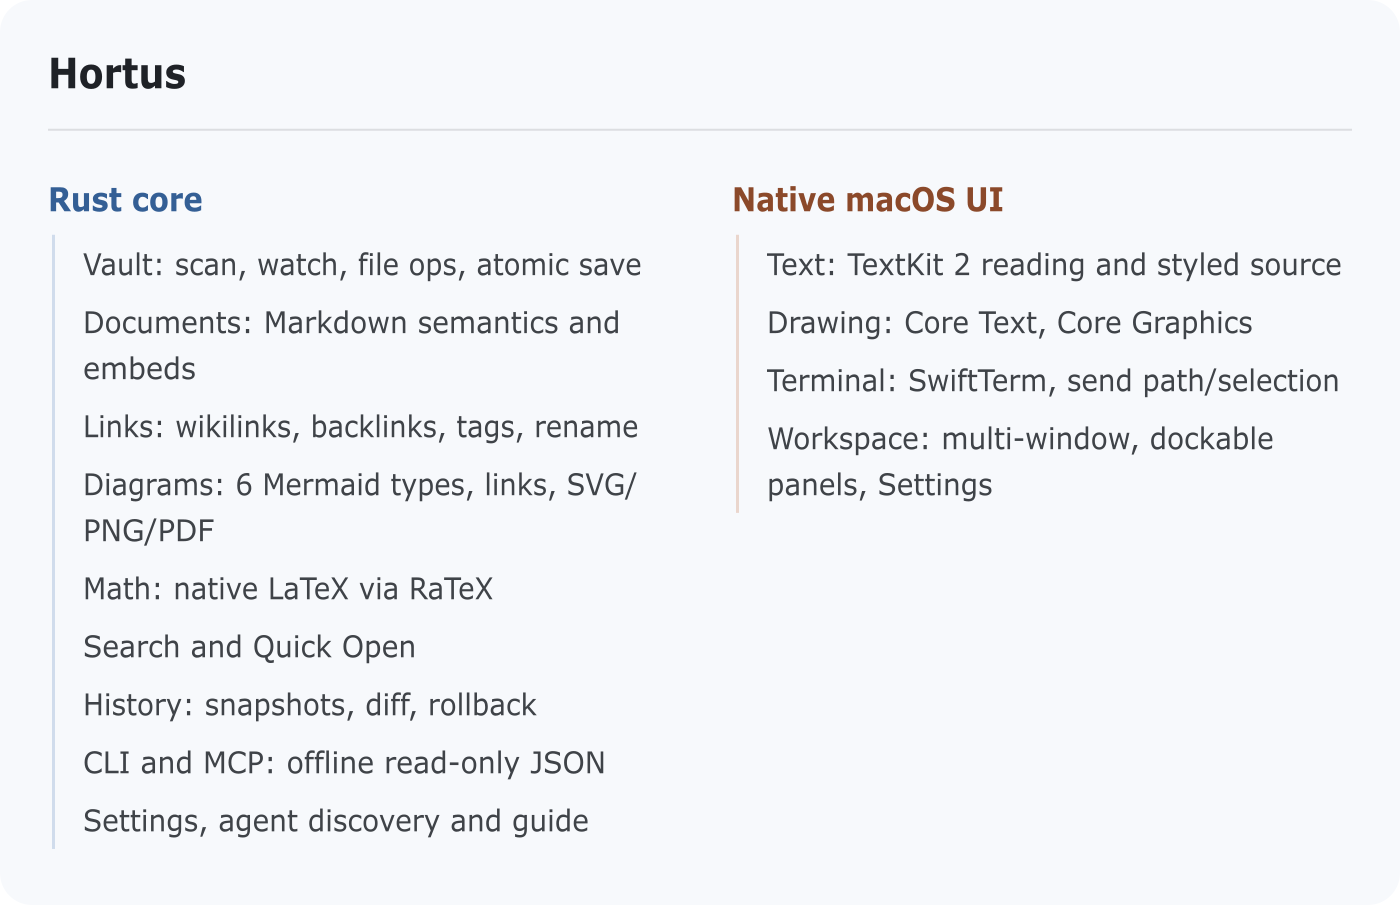
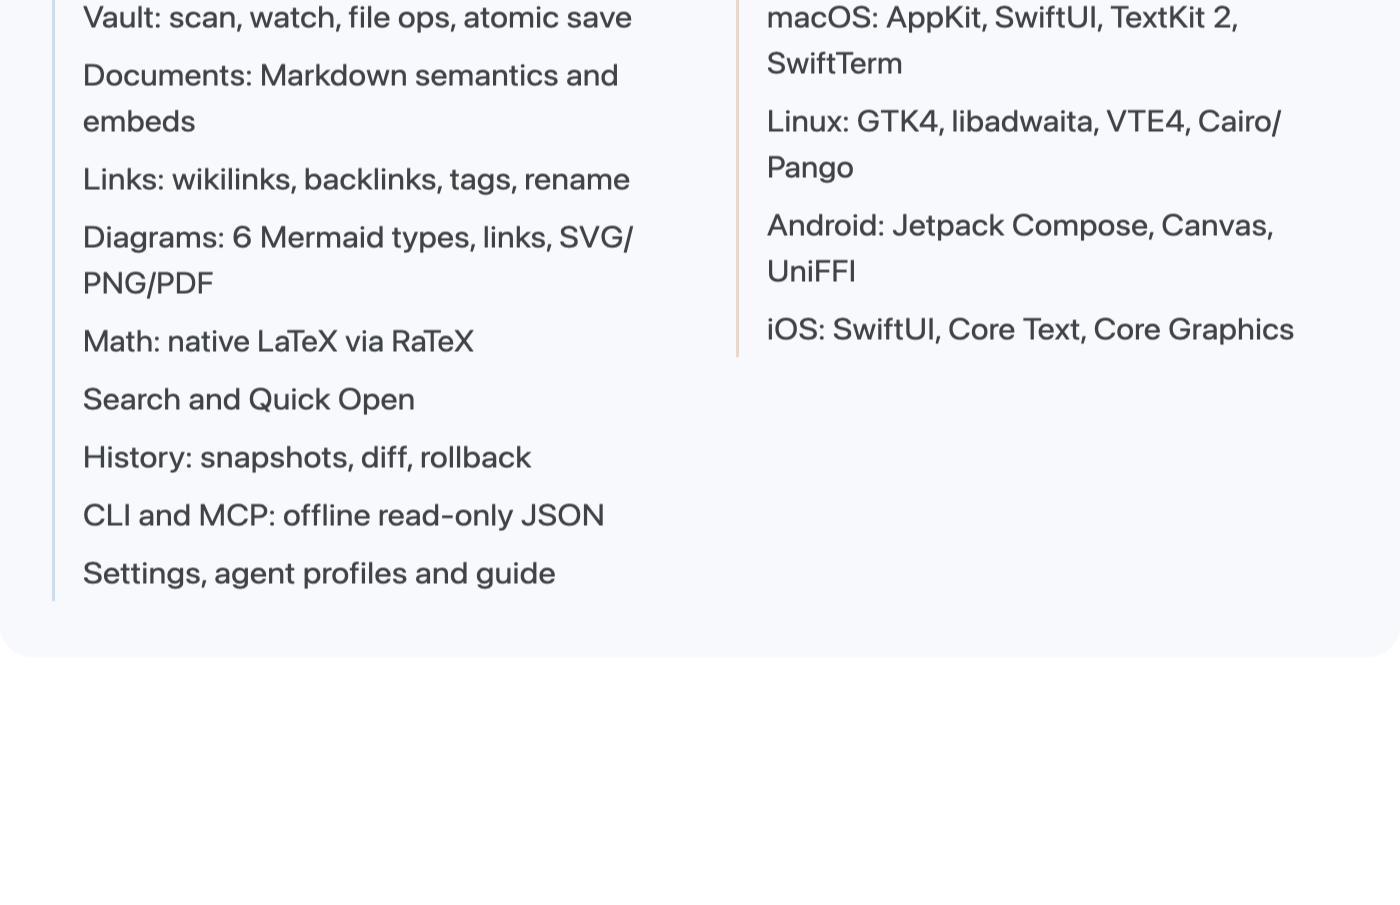
更新 1.0.0 中英文 README 与四张原生架构图

diff --git a/README.md b/README.md
@@ -1,7 +1,7 @@
 <h1>Hortus</h1>
 <p><strong><a href="README.zh-CN.md">简体中文</a></strong></p>
 
-Hortus is a native macOS Markdown knowledge viewer built for reading alongside AI agents. Open your notes directly, run command-line agents in a built-in terminal after an automatic full-vault snapshot, connect external agents over offline read-only CLI or MCP, review and roll back changes in place, and read six native Mermaid diagram types and LaTeX math without leaving the page.
+Hortus is a cross-platform native Markdown knowledge viewer built for reading alongside AI agents — on **macOS 26.0+**, **Linux (GTK4)**, **Android**, and **iOS**, sharing a single Rust core with zero WebView. Open your notes folder directly, run command-line agents in a built-in terminal after an automatic full-vault snapshot, connect external agents over the bundled offline CLI or MCP server, review and roll back changes in place, and read six native Mermaid diagram types and LaTeX math without leaving the page.
 
 ![The same 81-node Mermaid tree at 700 px: Mermaid's default layout and Hortus's readable columns](docs/images/mermaid-comparison.png)
 
@@ -9,16 +9,16 @@ Hortus is a native macOS Markdown knowledge viewer built for reading alongside A
 
 ## Why Hortus
 
-Most note apps are built around typing. As agents draft, organize, and update more of your notes, you spend more time reading, verifying diffs, and keeping large diagrams legible. Hortus puts reading first, snapshots your vault before an agent runs, exposes your knowledge graph over offline CLI and MCP, and keeps editing one keystroke away.
+Most note apps are built around typing. As agents draft, organize, and update more of your notes, you spend more time reading, verifying diffs, and keeping large diagrams legible. Hortus puts reading first, snapshots your vault before an agent runs, exposes your knowledge graph over offline CLI and MCP, and keeps editing one keystroke away across desktop and mobile.
 
 | | Typical write-first note app | Hortus |
 |---|---|---|
-| Opening a note | Opens in an editor | Opens in a reading view; `⌘E` switches to editing |
-| Working with an agent | A plugin, or a terminal in another window | Built-in shell and agent tabs at the vault root (`⌃\``), send note path (`⌃⌘L`) or selection (`⇧⌃⌘L`), plus offline CLI and `hortus mcp` |
+| Opening a note | Opens in an editor | Opens in a reading view with centered comfortable column width; `⌘E` / `Ctrl+E` switches to editing |
+| Working with an agent | A plugin, or a terminal in another window | Built-in shell and multi-profile agent tabs at the vault root, custom command launch dialog, safe path/selection sending, plus bundled `hortus` CLI and `hortus mcp` |
 | Safety net for agent edits | Manual Git commits or separate backups | Automatic full-vault snapshot before launch; review diffs and roll back a hunk, file, or session |
-| Large Mermaid diagrams | Scaled down to fit, or scrolled sideways | Six native diagram types rendered in Rust + Core Graphics, clickable `[[wikilinks]]`, Focus Mode (`⇧⌘D`), and SVG/PNG/PDF export |
-| Runtime and footprint | Often a web app with a bundled browser engine | Native Swift (AppKit and SwiftUI) on a Rust core; 18.5 MiB installed, 1 process |
-| Your notes folder | Often stores app state and settings too | Holds only your files; settings live in `~/.config/hortus` and snapshots in Application Support |
+| Large Mermaid diagrams | Scaled down to fit, or scrolled sideways | Six native diagram types laid out in Rust and drawn natively, clickable `[[wikilinks]]`, Focus Mode, and SVG/PNG/PDF export |
+| Runtime and footprint | Often a web app with a bundled browser engine | Native UIs (AppKit/SwiftUI, GTK4/libadwaita, Jetpack Compose, SwiftUI iOS) on one Rust core; 22.1 MiB installed on macOS (including CLI), 1 process |
+| Your notes folder | Often stores app state and settings too | Holds only your files; settings live in `~/.config/hortus` and snapshots/caches in system directories |
 
 ## Features
 
@@ -29,9 +29,9 @@ Most note apps are built around typing. As agents draft, organize, and update mo
   <img alt="Hortus reading view showing callouts, an aligned table, a code block, and native inline and display LaTeX math" src="docs/images/workspace-reading-light.png" width="800">
 </picture>
 
-- **Native reading & LaTeX math.** Headings, lists, interactive tasks, quotes, callouts, footnotes, code blocks, aligned tables (with horizontal scroll for wide tables), and Quick Look images render natively with Markdown markers and comments (`<!-- … -->`, `%% … %%`) hidden. YAML frontmatter displays as compact properties. Inline (`$…$`) and display (`$$…$$`) LaTeX formulas typeset natively via RaTeX and Core Text, preserve raw `$`/`$$` source on copy, support VoiceOver in reading order, and report syntax errors in place.
+- **Native reading, centered column & LaTeX math.** Headings, lists, interactive tasks, quotes, callouts, footnotes, code blocks, aligned tables (with horizontal scroll for wide tables), and images render natively inside a centered comfortable column width on widescreen displays, with Markdown markers and comments (`<!-- … -->`, `%% … %%`) hidden. YAML frontmatter displays as compact properties. Inline (`$…$`) and display (`$$…$$`) LaTeX formulas typeset natively via RaTeX and bundled KaTeX fonts, preserve raw `$`/`$$` source on copy, support accessibility in reading order, and report syntax errors in place.
 - **Full note & diagram embeds.** `![[Note]]`, `![[Note#Heading]]`, `![[Note|Alias]]`, and standalone `![[diagram.mmd]]` render inline as native embedded cards (preserving Markdown, math, images, Mermaid interactions, and nested links) with automatic cycle detection and a 3-level nesting guard.
-- **Knowledge graph & instant lookup.** Click `[[wikilinks]]` (including heading anchors) and `#tags` directly in reading view. Inspect incoming references in **Backlinks** (including Mermaid node links and embeds), filter hierarchical `#tags` in **Tags**, jump by heading in **Outline**, open by title or path with Quick Open (`⌘P`), and run live full-text **Search** (`⇧⌘F`).
+- **Knowledge graph & instant lookup.** Click `[[wikilinks]]` (including heading anchors) and `#tags` directly in reading view. Inspect incoming references in **Backlinks** (including Mermaid node links and embeds), filter hierarchical `#tags` in **Tags**, follow active headings in **Outline**, open by title or path with Quick Open (`⌘P` / `Ctrl+P`), and run live full-text **Search** (`⇧⌘F` / `Ctrl+Shift+F`).
 
 ### 2. Built for AI agents
 
@@ -40,10 +40,10 @@ Most note apps are built around typing. As agents draft, organize, and update mo
   <img alt="Hortus Changes panel showing a modified note's inline hunk diff alongside revert controls and file metadata" src="docs/images/changes-review-light.png" width="800">
 </picture>
 
-- **Built-in terminal & safe context sending.** Press `⌃\`` to open the built-in terminal at the vault root (`HORTUS_VAULT` set automatically), `⌘T` for another shell, or `⌥⌘T` for an isolated agent tab with Nerd Font fallback and custom monospace fonts. Send the active note's quoted relative path (`⌃⌘L`) or current reading/editing selection (`⇧⌃⌘L`) straight into the terminal using sanitized bracketed paste — never auto-executing Enter.
-- **Full-vault snapshots, diff review & rollback.** Before an agent launches, Hortus captures a full-vault snapshot (APFS copy-on-write clones where supported, keeping attachments and permissions, skipping `.git`, never following symlinks) and refuses to launch if snapshotting fails. External edits refresh open notes in place; review line-level hunks, renames, and metadata in **Changes** and roll back a single hunk, file, or entire session with digest verification.
-- **Agent discovery & guide.** **Settings (`⌘,`) → Agent** scans your login shell `PATH` and common macOS paths for installed CLIs (`omp`, `codex`, `claude`, `gemini`, `opencode`, `aider`, `goose`) without executing any binary, fills launch templates with one click, and lets you customize the built-in `{guide}` (also readable via `hortus guide`).
-- **Offline read-only CLI & MCP Server (`hortus mcp`).** Query any vault offline as structured JSON with `hortus search`, `backlinks`, `links`, `tags`, `outline`, `orphans`, `broken-links`, `mermaid check`, `mermaid render`, and `guide`, or connect any MCP-compatible agent over stdio:
+- **Built-in terminal & safe context sending.** Press `⌃\`` (`Ctrl+\`` on Linux) to open the built-in terminal at the vault root (`HORTUS_VAULT` set and bundled `hortus` added to `PATH` automatically), open additional shells or isolated agent tabs with Nerd Font fallback and custom monospace fonts, and send the active note's quoted relative path (`⌃⌘L`) or current reading/editing selection (`⇧⌃⌘L`) via sanitized bracketed paste — never auto-executing Enter.
+- **Full-vault snapshots, diff review & rollback.** Before an agent launches, Hortus captures a full-vault snapshot (APFS/reflink copy-on-write where supported, keeping attachments and permissions, skipping `.git`, never following symlinks) and refuses to launch if snapshotting fails. External edits refresh open notes in place; review line-level hunks, renames, and metadata in **Changes** and roll back a single hunk, file, or entire session with digest verification.
+- **Multi-profile agents (`[[agent.profiles]]`), custom commands & discovery.** **Settings → Agent** scans your login shell `PATH` for installed CLIs (`omp`, `codex`, `claude`, `gemini`, `opencode`, `aider`, `goose`) without executing any binary, manages multiple named agent profiles (`[[agent.profiles]]`) alongside a one-off **Custom Command** launch dialog, and lets you customize the built-in `{guide}` (also readable via `hortus guide`).
+- **Bundled `hortus` CLI & offline MCP Server (`hortus mcp`).** macOS bundles `Contents/Helpers/hortus` inside `Hortus.app` (with one-click `~/.local/bin/hortus` symlink installation and MCP snippet copy in **Settings → Agent**), and standalone `hortus-cli-1.0.0-arm64.tar.gz` is also available. Query any vault offline as structured JSON with `hortus search`, `backlinks`, `links`, `tags`, `outline`, `orphans`, `broken-links`, `mermaid check`, `mermaid render`, and `guide`, or connect any MCP-compatible agent over stdio:
 
 ```json
 {
@@ -65,38 +65,40 @@ Most note apps are built around typing. As agents draft, organize, and update mo
   <img alt="Hortus native Mermaid flowchart rendering with orthogonal edge routing, diamond decisions, edge labels, and interactive tasks below" src="docs/images/flowchart-light.png" width="800">
 </picture>
 
-- **Six native diagram types, zero WebView.** Parsed and laid out in Rust and drawn natively with Core Text and Core Graphics:
+- **Six native diagram types, zero WebView.** Parsed and laid out identically in Rust across every platform and the CLI, then drawn natively:
   - **Mindmaps & tree flowcharts:** responsive balanced columns at body text size with per-diagram persisted branch folding.
   - **General flowcharts:** branches, merges, loops, long chains, multi-root graphs, node shapes, edge labels, `classDef` styles, top-level subgraphs, and `~~~` ordering links with orthogonal routing.
   - **Sequence diagrams (`sequenceDiagram`):** participants, control blocks, notes, activations, and mirrored bottom headers on tall diagrams.
   - **State diagrams (`stateDiagram-v2` / `stateDiagram`):** start/end, composite states, concurrent regions, fork/join, choice, notes, and bidirectional or self-loop transitions.
   - **Class diagrams (`classDiagram`):** three-section UML cards, generics, stereotypes, visibility markers, `namespace` containers, all 8 relation types with cardinalities, and notes.
   - **Entity-relationship diagrams (`erDiagram`):** typed three-column attributes with `PK`/`FK`/`UK` badges, full Crow's Foot cardinalities, solid/dashed relations, and self-relations.
-- **In-diagram `[[wikilinks]]`, source linking & Focus Mode (`⇧⌘D`).** Click `[[Note]]`, `[[Note#Heading]]`, or `[[Note|Alias]]` inside diagram nodes to navigate directly (and track references in Backlinks); `⌘-click` or use the context menu to jump to Mermaid source without relayout; open Focus Mode (`⇧⌘D`) for 25%–400% vector zoom, pan, minimap, `⌘F` node search, and cached per-diagram viewports.
-- **Native export & standalone `.mmd` files.** Export any diagram to **SVG**, **2× Retina PNG**, or **vector PDF** from the context menu or Focus Mode top bar, or render/check `.md` and `.mmd` files offline via `hortus mermaid check` and `hortus mermaid render`. Unsupported diagram types stay visible as source.
+- **In-diagram `[[wikilinks]]`, source linking & Focus Mode (`⇧⌘D`).** Click `[[Note]]`, `[[Note#Heading]]`, or `[[Note|Alias]]` inside diagram nodes to navigate directly (and track references in Backlinks); `⌘-click` (or context menu) jumps to Mermaid source without relayout; open Focus Mode (`⇧⌘D`) for 25%–400% vector zoom, pan, minimap, node search, and cached per-diagram viewports.
+- **Native export & standalone `.mmd` files.** Export any diagram directly from the laid-out scene to **SVG**, **2× Retina PNG**, or **vector PDF**, or render/check `.md` and `.mmd` files offline via `hortus mermaid check` and `hortus mermaid render`. Unsupported diagram types stay visible as source.
 
-### 4. Editing, files, multi-window, and privacy
+### 4. Four native apps, editing, files, and local-first privacy
 
-- **Styled Markdown editing (`⌘E`).** TextKit 2 editor keeps markers visible in muted tone while styling headings, emphasis, links, and callouts. Type `[[` for native single-undo wikilink completion, `⌘-click` links to navigate, use native IME, undo/redo, find and replace (`⌘F`, `⌥⌘F`), and return to reading at the same scroll position.
-- **Vault file management & atomic saving.** Create notes and folders, rename notes or **whole folders** with an automatic vault-wide link-update preview (updating notes, embeds, and explicit attachment paths while protecting unsaved tabs), and move items to Trash across synced windows. Auto-save runs after 1 second of idle or on `⌘S`/tab switch/blur; atomic content replacement preserves creation dates, Finder tags, extended attributes, permissions, line endings, and BOM, with conflict resolution and recovery drafts.
-- **Multi-window, dockable workspace & local-first privacy.** Open multiple vaults in separate windows or tear tabs out into new windows on the same vault. Files, Search, Outline, Backlinks, Tags, Changes, Shell, and Agent share a single tier of dockable tool tabs across left (`⌃⌘S`), right (`⌥⌘I`), and bottom (`⌘J`) panels. Open any ordinary Markdown folder or Obsidian vault (`.obsidian` is ignored); **Settings (`⌘,`)** syncs two-way with `~/.config/hortus/config.toml` while preserving comments. Completely offline with zero networking or telemetry, in English and Simplified Chinese, following light and dark appearance.
+- **Desktop (macOS & Linux).** Full multi-window workspace with dockable tool tabs (Files, Search, Outline, Backlinks, Tags, Changes, Shell, Agent), styled Markdown editing (`⌘E` / `Ctrl+E`) with `[[` wikilink completion, folder/note rename with vault-wide link updates, atomic saving that preserves file metadata, and two-way comment-preserving `~/.config/hortus/config.toml` sync.
+- **Mobile (Android & iOS).** Native Jetpack Compose (Android) and SwiftUI (iOS / iPadOS) apps sharing the same Rust core for local Markdown reading, editing, full embeds, knowledge graph navigation, LaTeX math, and all six interactive Mermaid diagram types with pinch-zoom Focus Mode and export — designed to open synced local folders with zero internet permission or telemetry.
+- **Local-first privacy.** Open any ordinary Markdown folder directly. Completely offline with zero networking or telemetry, in English and Simplified Chinese, following light and dark appearance.
 
 ## Performance
 
 Measured on an Apple M3 MacBook Air (macOS 27.2.1) using the original [CC0 demo vault](fixtures/demo-vault/README.md); each figure is the median of five runs. See `tools/compare-obsidian.py` for the measurement setup.
 
-| Metric | Hortus 0.5.0 |
+| Metric | Hortus 1.0.0 (macOS) |
 |---|---|
-| Installed size (`du`) | 18.5 MiB |
-| Warm launch to note title | ~0.4 s |
-| Memory with 81-node demo diagram open | ~145 MiB |
+| Installed size (`du`, including bundled `hortus` CLI) | 22.1 MiB |
+| Warm launch to note title | ~0.9 s (888 ms) |
+| Memory with 81-node demo diagram open | ~137 MiB |
 | Processes | 1 native process |
 
 ## Install
 
-Requires **macOS 27 or later and an Apple Silicon Mac**. Version 0.5.0 uses ad-hoc signing and is not notarized.
+### macOS (Apple Silicon)
 
-1. Download `Hortus-0.5.0-arm64.dmg` from [Releases](https://github.com/groundgrounder/Hortus/releases), open it, and drag Hortus into Applications.
+Requires **macOS 26.0 or later on Apple Silicon**. Version 1.0.0 uses ad-hoc signing and is not notarized.
+
+1. Download `Hortus-1.0.0-arm64.dmg` from [Releases](https://github.com/groundgrounder/Hortus/releases), open it, and drag Hortus into Applications.
 2. Open Hortus. macOS may block the first launch because it cannot verify the developer. Choose either method below to allow this copy:
 
 **System Settings:** After the blocked attempt, click **Done**, open **System Settings → Privacy & Security**, find the message about Hortus, and click **Open Anyway**. Follow the confirmation and authentication prompts, then launch Hortus again if needed.
@@ -108,15 +110,30 @@ xattr -dr com.apple.quarantine /Applications/Hortus.app
 open /Applications/Hortus.app
 ```
 
-Both methods were tested on macOS 27.2. Prompt wording may vary on other macOS versions.
+- **Bundled or standalone CLI:** Inside Hortus, open **Settings → Agent** to install a `~/.local/bin/hortus` symlink pointing to the bundled `Contents/Helpers/hortus` binary, or download the standalone `hortus-cli-1.0.0-arm64.tar.gz` archive from [Releases](https://github.com/groundgrounder/Hortus/releases).
+
+### Linux (x86_64)
+
+Native GTK4 + libadwaita + VTE4 desktop app and `hortus` CLI:
+
+- **Nix flake:** `nix run github:groundgrounder/Hortus` (or `nix profile install github:groundgrounder/Hortus`)
+- **Packages:** Download the `.deb` (Debian/Ubuntu), `.rpm` (Fedora/RHEL), or `.tar.gz` bundle from [Releases](https://github.com/groundgrounder/Hortus/releases).
+
+### Android (arm64-v8a)
+
+Download the signed Release APK `Hortus-1.0.0-android-arm64.apk` from [Releases](https://github.com/groundgrounder/Hortus/releases) and install it on Android 10+ (API 29+). Grant folder access to open a local vault synced via your preferred external sync tool (zero `INTERNET` permission).
+
+### iOS / iPadOS (arm64, sideload)
+
+Download `Hortus-1.0.0-ios-unsigned.ipa` from [Releases](https://github.com/groundgrounder/Hortus/releases) (iOS / iPadOS 18.0+) and sign/install with your own Apple ID using a sideloading tool such as AltStore, SideStore, or Sideloadly.
 
 ## Architecture
 
-A Rust workspace (`crates/`) handles vault watching, file operations, atomic saving, Markdown semantics and embeds, link/tag graph indexing, native layout for six Mermaid diagram types, RaTeX math, full-text search, session snapshots/diff/rollback, configuration, and offline read-only CLI and MCP queries. The macOS app (`apps/macos/`) is built in Swift with AppKit and SwiftUI and calls the Rust core through UniFFI. The diagram below was laid out and rendered by Hortus 0.5.0 itself with `hortus mermaid render`.
+A shared Rust workspace (`crates/`) handles vault watching, file operations, atomic saving, Markdown semantics and embeds, link/tag graph indexing, native layout for six Mermaid diagram types, RaTeX math, full-text search, session snapshots/diff/rollback, configuration, and offline read-only CLI and MCP queries. Four native apps (`apps/macos/`, `apps/linux/`, `apps/android/`, `apps/ios/`) draw directly on platform toolkits with zero WebView. The diagram below was laid out and rendered by Hortus 1.0.0 itself with `hortus mermaid render`.
 
 <picture>
   <source media="(prefers-color-scheme: dark)" srcset="docs/images/architecture-dark.png">
-  <img alt="Hortus architecture: a Rust core (vault, documents and embeds, knowledge links, 6 Mermaid types, math, search, history, CLI and MCP, settings) and a native macOS UI (TextKit 2, Core Text and Core Graphics, SwiftTerm, multi-window workspace)" src="docs/images/architecture-light.png" width="700">
+  <img alt="Hortus 1.0.0 architecture: a shared Rust core and four native apps (macOS AppKit/SwiftUI, Linux GTK4/libadwaita/VTE4, Android Jetpack Compose, iOS SwiftUI)" src="docs/images/architecture-light.png" width="700">
 </picture>
 
 <details>
@@ -124,11 +141,11 @@ A Rust workspace (`crates/`) handles vault watching, file operations, atomic sav
 
 ```mermaid
 flowchart TD
-  app[Hortus]
+  app[Hortus 1.0.0]
   core[Rust core]
-  ui[Native macOS UI]
+  clients[Native apps]
   app --> core
-  app --> ui
+  app --> clients
   vault[Vault: scan, watch, file ops, atomic save]
   doc[Documents: Markdown semantics and embeds]
   links[Links: wikilinks, backlinks, tags, rename]
@@ -137,7 +154,7 @@ flowchart TD
   search[Search and Quick Open]
   history[History: snapshots, diff, rollback]
   cli[CLI and MCP: offline read-only JSON]
-  config[Settings, agent discovery and guide]
+  config[Settings, agent profiles and guide]
   core --> vault
   core --> doc
   core --> links
@@ -147,34 +164,35 @@ flowchart TD
   core --> history
   core --> cli
   core --> config
-  text[Text: TextKit 2 reading and styled source]
-  draw[Drawing: Core Text, Core Graphics]
-  term[Terminal: SwiftTerm, send path/selection]
-  panels[Workspace: multi-window, dockable panels, Settings]
-  ui --> text
-  ui --> draw
-  ui --> term
-  ui --> panels
+  mac[macOS: AppKit, SwiftUI, TextKit 2, SwiftTerm]
+  linux[Linux: GTK4, libadwaita, VTE4, Cairo/Pango]
+  android[Android: Jetpack Compose, Canvas, UniFFI]
+  ios[iOS: SwiftUI, Core Text, Core Graphics]
+  clients --> mac
+  clients --> linux
+  clients --> android
+  clients --> ios
 ```
 
 </details>
 
 ## Known issues
 
-- Version 0.5.0 is ad-hoc signed. Updating or re-downloading the app may require first-launch approval again.
-- When a terminal session accesses protected folders such as Documents, macOS requests permission on behalf of Hortus. App updates may require re-granting access in **Privacy & Security → Files & Folders**.
+- macOS 1.0.0 downloads are ad-hoc signed. Updating or re-downloading the app may require first-launch approval again.
+- When a macOS terminal session accesses protected folders such as Documents, macOS requests permission on behalf of Hortus. App updates may require re-granting access in **Privacy & Security → Files & Folders**.
+- iOS builds are distributed as unsigned `.ipa` archives for sideloading and require signing with your own Apple ID.
 - Mermaid support covers mindmaps, tree and general flowcharts (including top-level subgraphs), sequence diagrams, state diagrams (`stateDiagram-v2` / `stateDiagram`), class diagrams (`classDiagram`), and entity-relationship diagrams (`erDiagram`). Unsupported diagram types (such as `gantt` or `pie`) stay visible as source.
 
 ## Roadmap
 
-- Native Linux desktop app (GTK4 + libadwaita + VTE) sharing the same Rust core, with `deb`, `rpm`, and Nix flake packaging.
-- Cross-platform polish and `1.0.0` macOS + Linux release.
-- iOS reading app and additional diagram refinements after `1.0.0`.
+- Classic radial/horizontal mindmap view mode and semantic zoom for extra-large diagrams.
+- Additional Mermaid diagram refinements and cross-platform editing polish.
+- Vault-level graph exploration and richer offline CLI / MCP workflows.
 
 <details>
 <summary>Continuous integration</summary>
 
-CI runs on pull requests, pushes to `main`, and manual dispatches. Ubuntu 24.04 checks Rust formatting, Clippy, workspace tests, and math-check tests. GitHub's public-preview `xcode-27` image builds the macOS app with warnings treated as errors, runs the Swift tests, and checks the public tree and app bundle. Its documented image has macOS 27.0.1, Xcode 27.1, and Swift 6.4.
+CI runs on pull requests, pushes to `main`, and manual dispatches. Ubuntu checks Rust formatting, Clippy, workspace tests, and math-check tests. macOS CI builds the macOS app with warnings treated as errors, runs the Swift tests, and checks the public tree and app bundle.
 
 CI does not create release packages, notarize, publish, or replace local release, real-window, TCC, or performance validation. Job logs remain available in each Actions run.
 
@@ -185,7 +203,7 @@ CI does not create release packages, notarize, publish, or replace local release
 - `crates/` and `tools/` are licensed under either the MIT license ([LICENSE-MIT](LICENSE-MIT)) or the Apache License 2.0 ([LICENSE-APACHE](LICENSE-APACHE)), at your option.
 - `apps/` is licensed under GPL-3.0-only ([apps/LICENSE](apps/LICENSE)).
 - The CC0 notices in `fixtures/vault-sample/` continue to apply to those sample notes. The original [demo vault](fixtures/demo-vault/LICENSE.txt) is also CC0.
-- Licenses for bundled open-source software and KaTeX fonts (SIL OFL 1.1) are listed in **About Hortus → Third-Party Licenses** (`Hortus.app/Contents/Resources/ThirdPartyNotices.txt`, generated by `tools/third-party-notices.py`).
+- Licenses for bundled open-source software and KaTeX fonts (SIL OFL 1.1) are listed in each app's **Third-Party Notices** (`ThirdPartyNotices.txt`).
 
 Contributions are accepted under the license of the directory they modify. No CLA is required.
 
